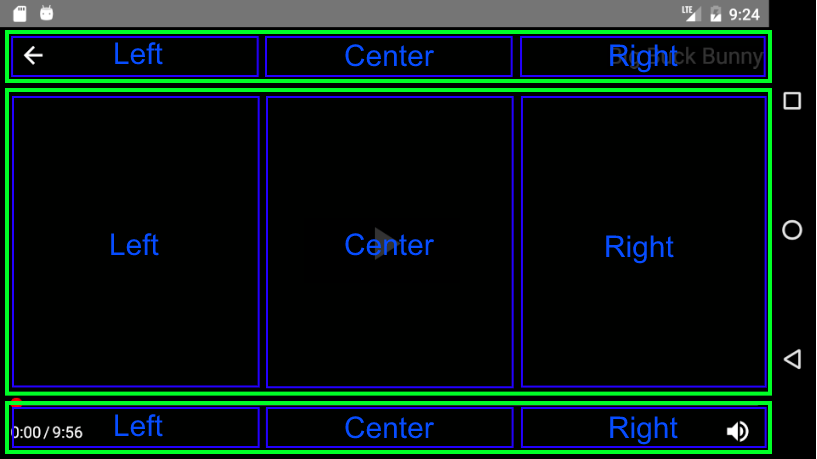
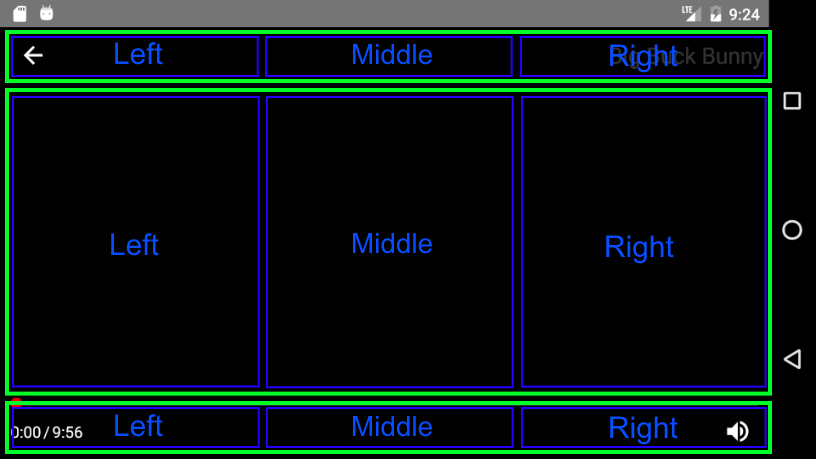
update Readme

Changed region(s): [[0.3978, 0.488, 0.5508, 0.5795], [0.3978, 0.8845, 0.5508, 0.976], [0.4284, 0.0915, 0.5508, 0.1525]]

diff --git a/README.md b/README.md
@@ -115,9 +115,36 @@ A convenient way to define styles for multiple components at once. See the [Them
 Override the default layout for the player. See the [Layout](#layout-1) section for more details.
 
 ## Layout
+By default, the player is laid out on a grid consisting of a [Header](#header), [Body](#Body) and [Footer](#footer), each of which is divided into a Left, Middle, and Right [ControlGroup](#controlgroup)
+
 ![Layout1](https://raw.githubusercontent.com/forma-exacta/forma-video-player/master/docs/layout1.png)
 
 ![Layout2](https://raw.githubusercontent.com/forma-exacta/forma-video-player/master/docs/layout2.png)
+
+#### Default Layout
+```
+{
+  Header: <Header layout={{
+    Left: <ControlGroup layout={[<Back />]} />,
+    Center: <ControlGroup layout={[]} />,
+    Right: <ControlGroup layout={[<Title />]} />,
+  }} />,
+  Body: <Header layout={{
+    Left: <ControlGroup layout={[]} />,
+    Center: <ControlGroup layout={[<Play />]} />,
+    Right: <ControlGroup layout={[]} />,
+  }} />,
+  Footer: <Header layout={{
+    Left: <ControlGroup layout={[<PlayerTime />]} />,
+    Center: <ControlGroup layout={[]} />,
+    Right: <ControlGroup layout={[<Mute />]} />,
+  }} />
+}
+```
+
+#### Custom Layout
+
+##### makeHeader, makeBody, makeFooter
 
 ## Styles
 Most components accept a set of styles that can be used to customize their look. These styles should be passed to the [Player](#player) component with the `styles` prop. The styles prop accepts an object containing styles grouped by component name.
